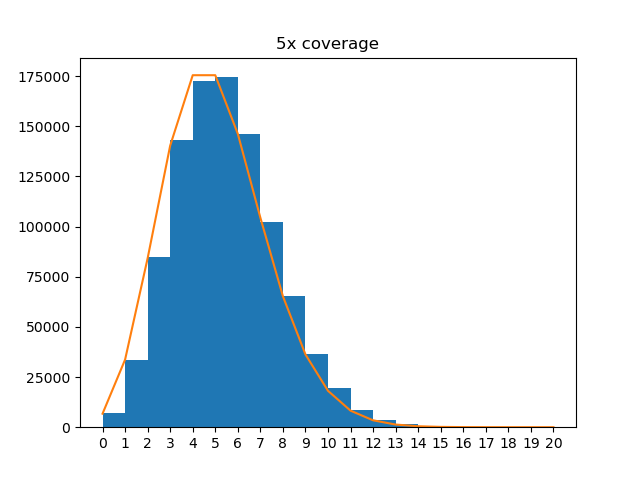
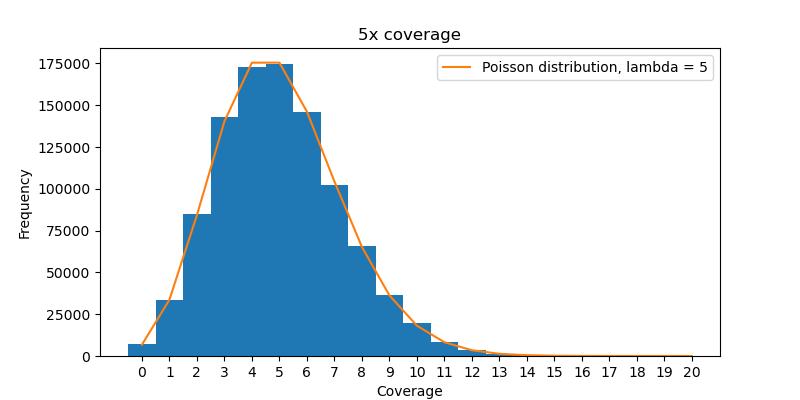
format figures

diff --git a/week1-homework/exercise1.py b/week1-homework/exercise1.py
@@ -10,7 +10,7 @@ np.random.seed(2729)
 # FOR 5X COVERAGE
 
 # start first plot
-fig, ax = plt.subplots()
+fig, ax = plt.subplots(figsize = (8, 4))
 
 # create array of zeros of length 1M 
 coverage = np.zeros(1000000, dtype=int)
@@ -34,13 +34,13 @@ x = np.arange(21, dtype=int)
 plt.xticks(x)
 
 # plot a histogram of the frequency of coverages
-plt.hist(coverage, bins=x)
+plt.hist(coverage, bins=x, align='left')
 
 # make pmf of poisson dist with lambda = 5
 pmf = scipy.stats.poisson.pmf(x, 5)
 
 # plot the frequency counts from pmf by multiplying by 1,000,000
-plt.plot(x, pmf * 1000000)
+plt.plot(x, pmf * 1000000, label = "Poisson distribution, lambda = 5")
 
 # find out how many positions have no coverage
 no_coverage = np.where(coverage == 0)
@@ -50,12 +50,15 @@ print(no_coverage[0].size)
 print(pmf[0] * 1000000)
 
 plt.title("5x coverage")
+ax.set_xlabel("Coverage")
+ax.set_ylabel("Frequency")
+ax.legend()
 plt.savefig("ex_1.2.png")
 
 # REPEAT FOR 15x
 
 # start second plot
-fig, ax = plt.subplots(figsize = (10, 4))
+fig, ax = plt.subplots(figsize = (12, 4))
 
 # create array of zeros of length 1M 
 coverage = np.zeros(1000000, dtype=int)
@@ -79,13 +82,13 @@ x = np.arange(41, dtype=int)
 plt.xticks(x)
 
 #plot a histogram of the frequency of coverages
-plt.hist(coverage, bins=x)
+plt.hist(coverage, bins=x, align='left')
 
 # make pmf of poisson dist with lambda = 15
 pmf = scipy.stats.poisson.pmf(x, 15)
 
 # plot the frequency counts from pmf by multiplying by 1,000,000
-plt.plot(x, pmf * 1000000)
+plt.plot(x, pmf * 1000000, label = "Poisson distribution, lambda = 15")
 
 # find out how many positions have no coverage
 no_coverage = np.where(coverage == 0)
@@ -95,5 +98,7 @@ print(no_coverage[0].size)
 print(pmf[0] * 1000000)
 
 plt.title("15x coverage")
-
+ax.set_xlabel("Coverage")
+ax.set_ylabel("Frequency")
+ax.legend()
 plt.savefig("ex_1.4.png")
